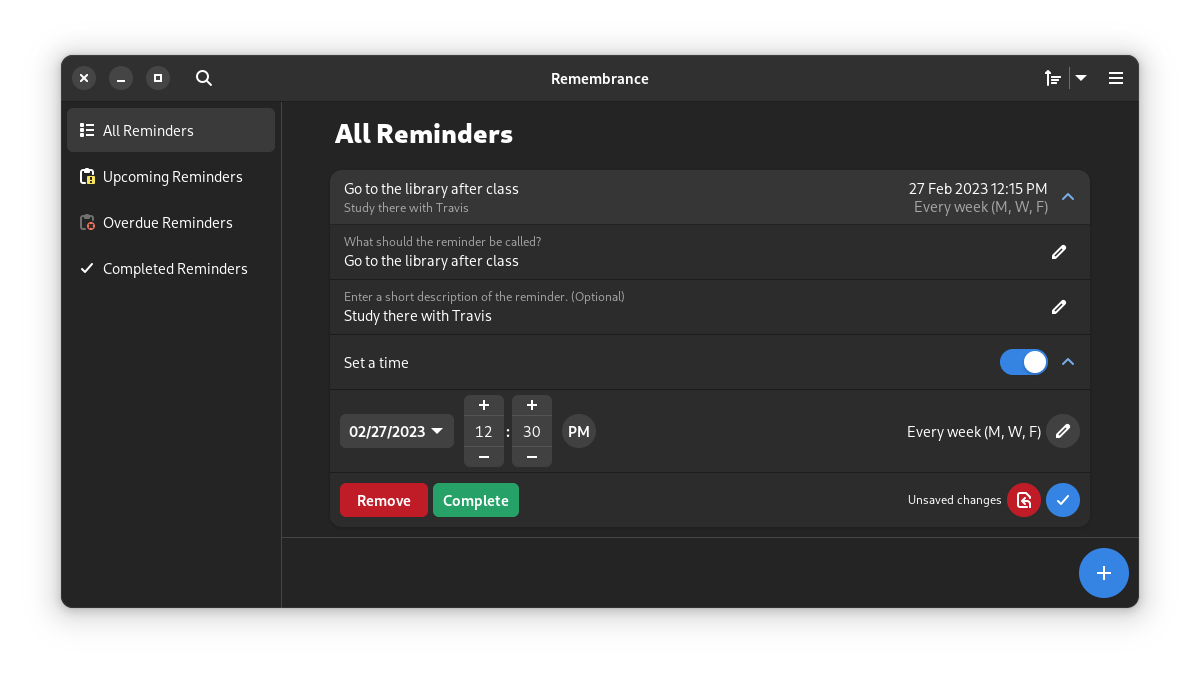
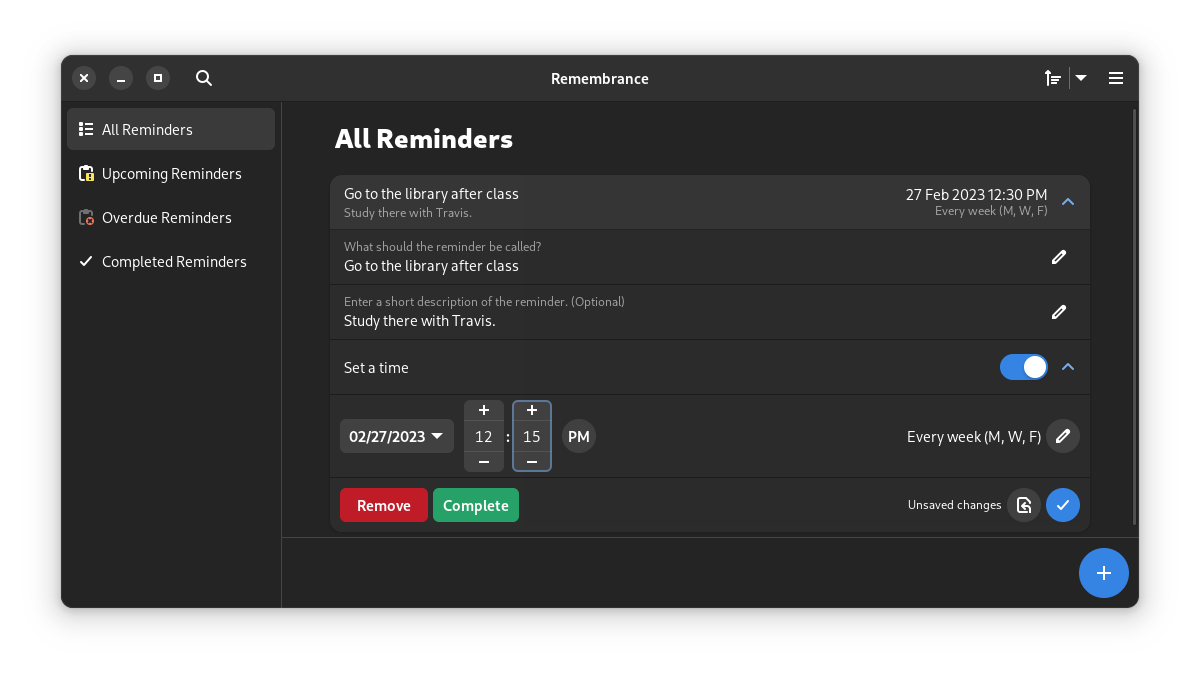
Update LINGUAS file and some minor style changes

diff --git a/src/browser/resources/stylesheet.css b/src/browser/resources/stylesheet.css
@@ -71,7 +71,7 @@ button.incomplete {
 }
 
 .navigation-sidebar row {
-    padding: 4px 12px;
+    padding: 3px 11px;
 }
 
 .navigation-sidebar:disabled row image {
